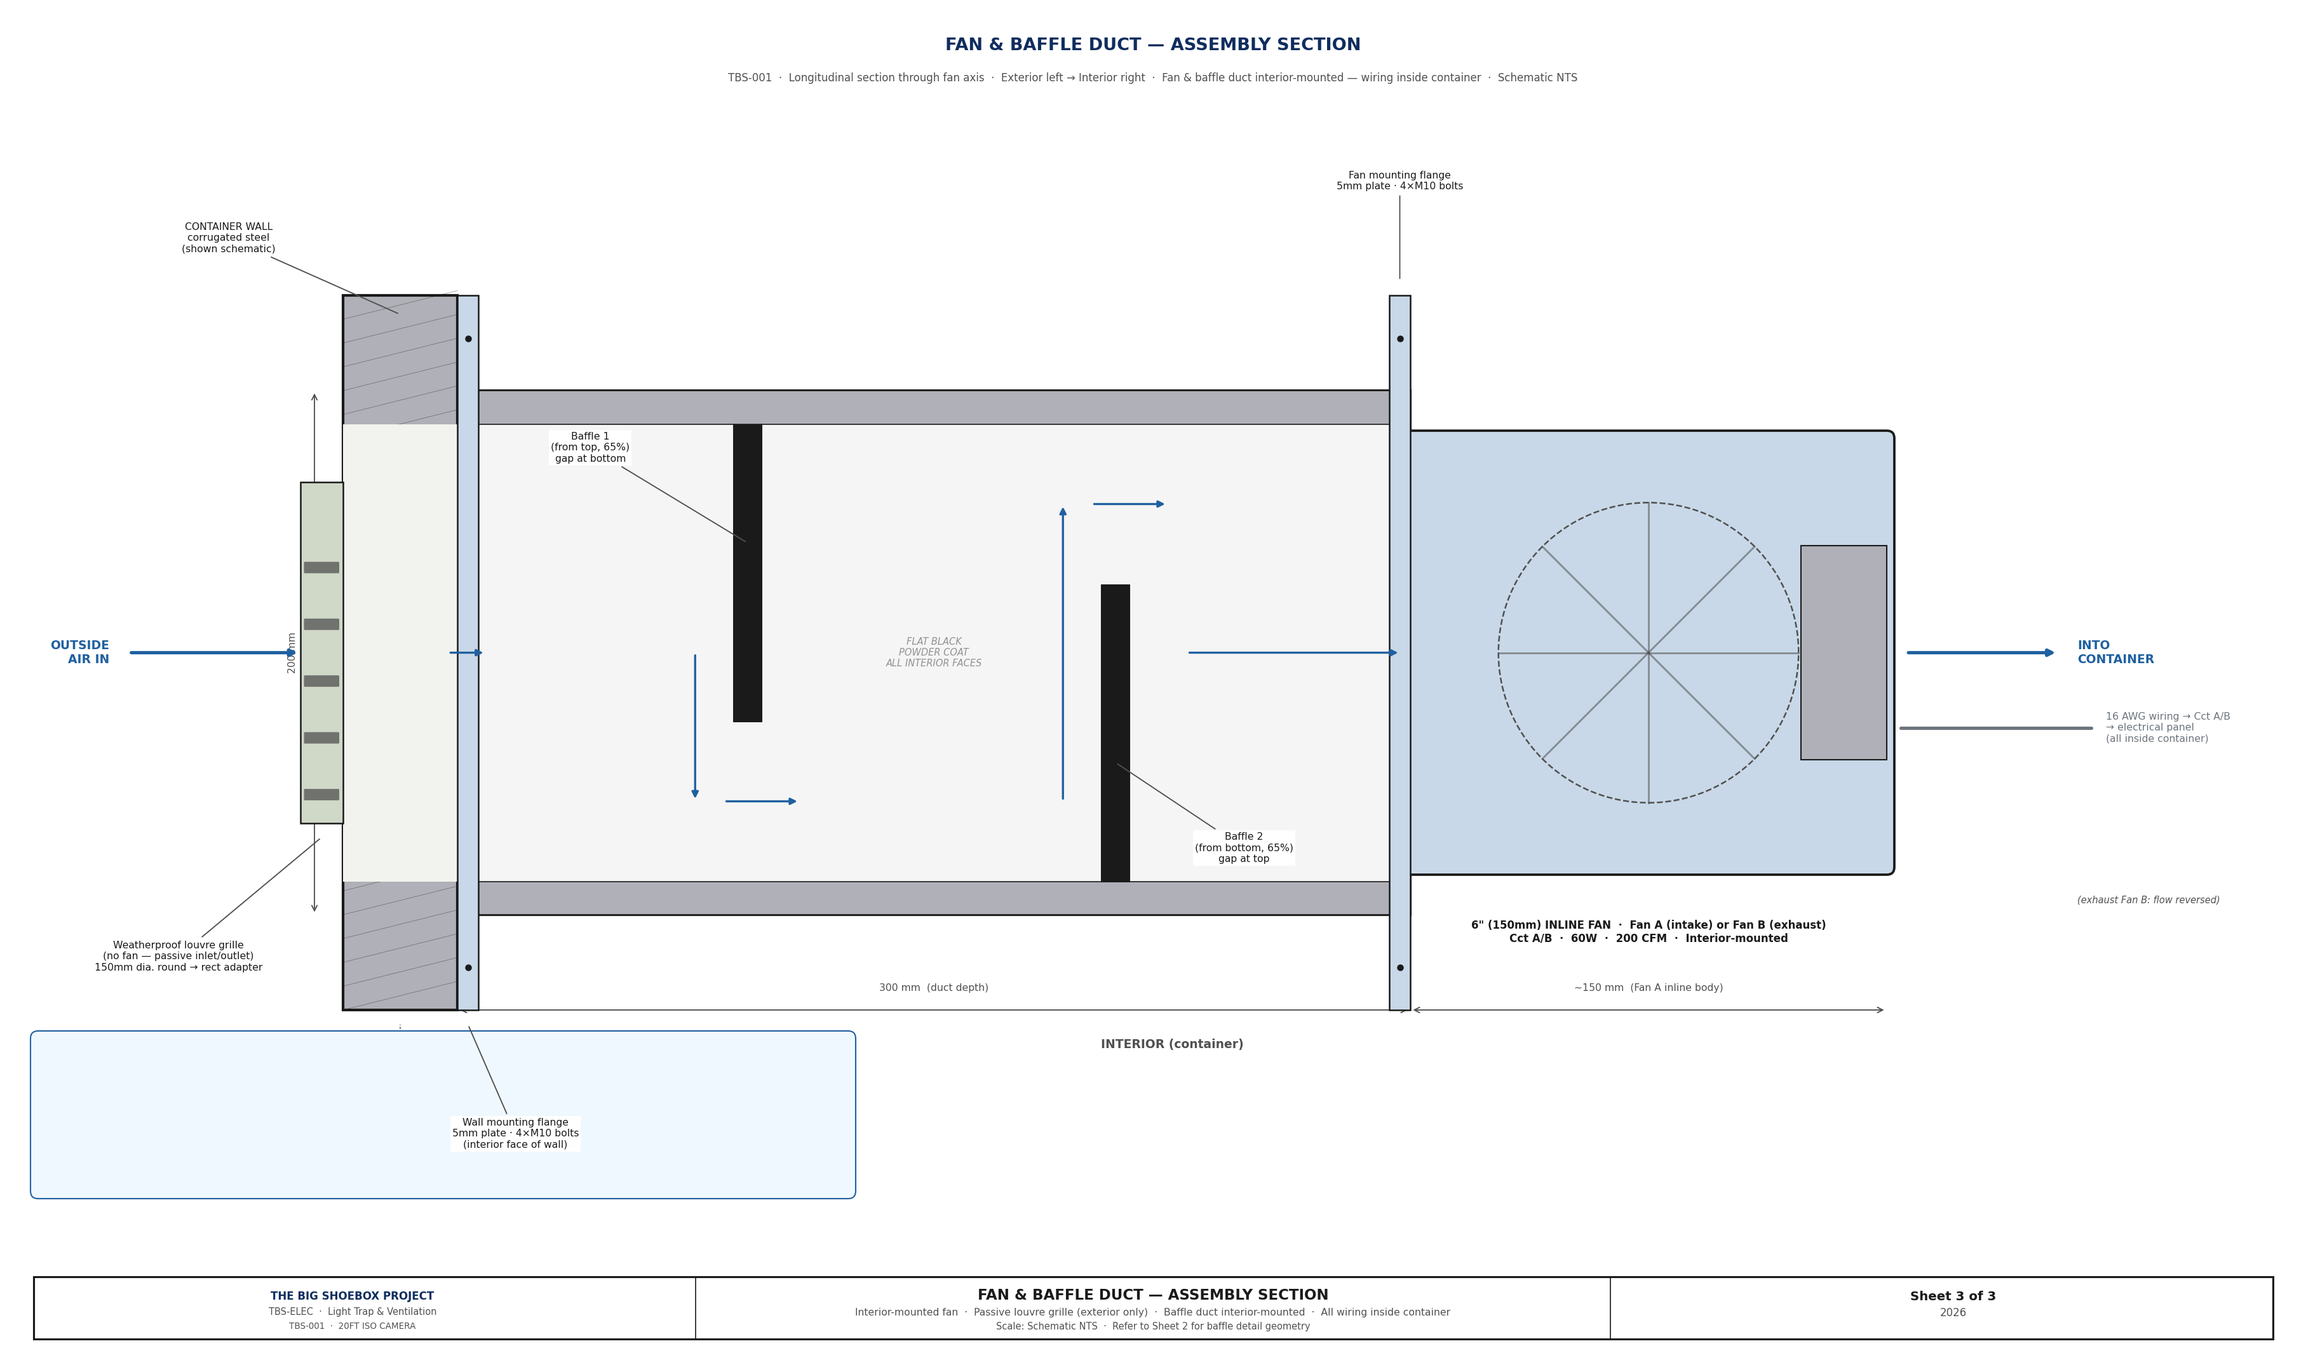
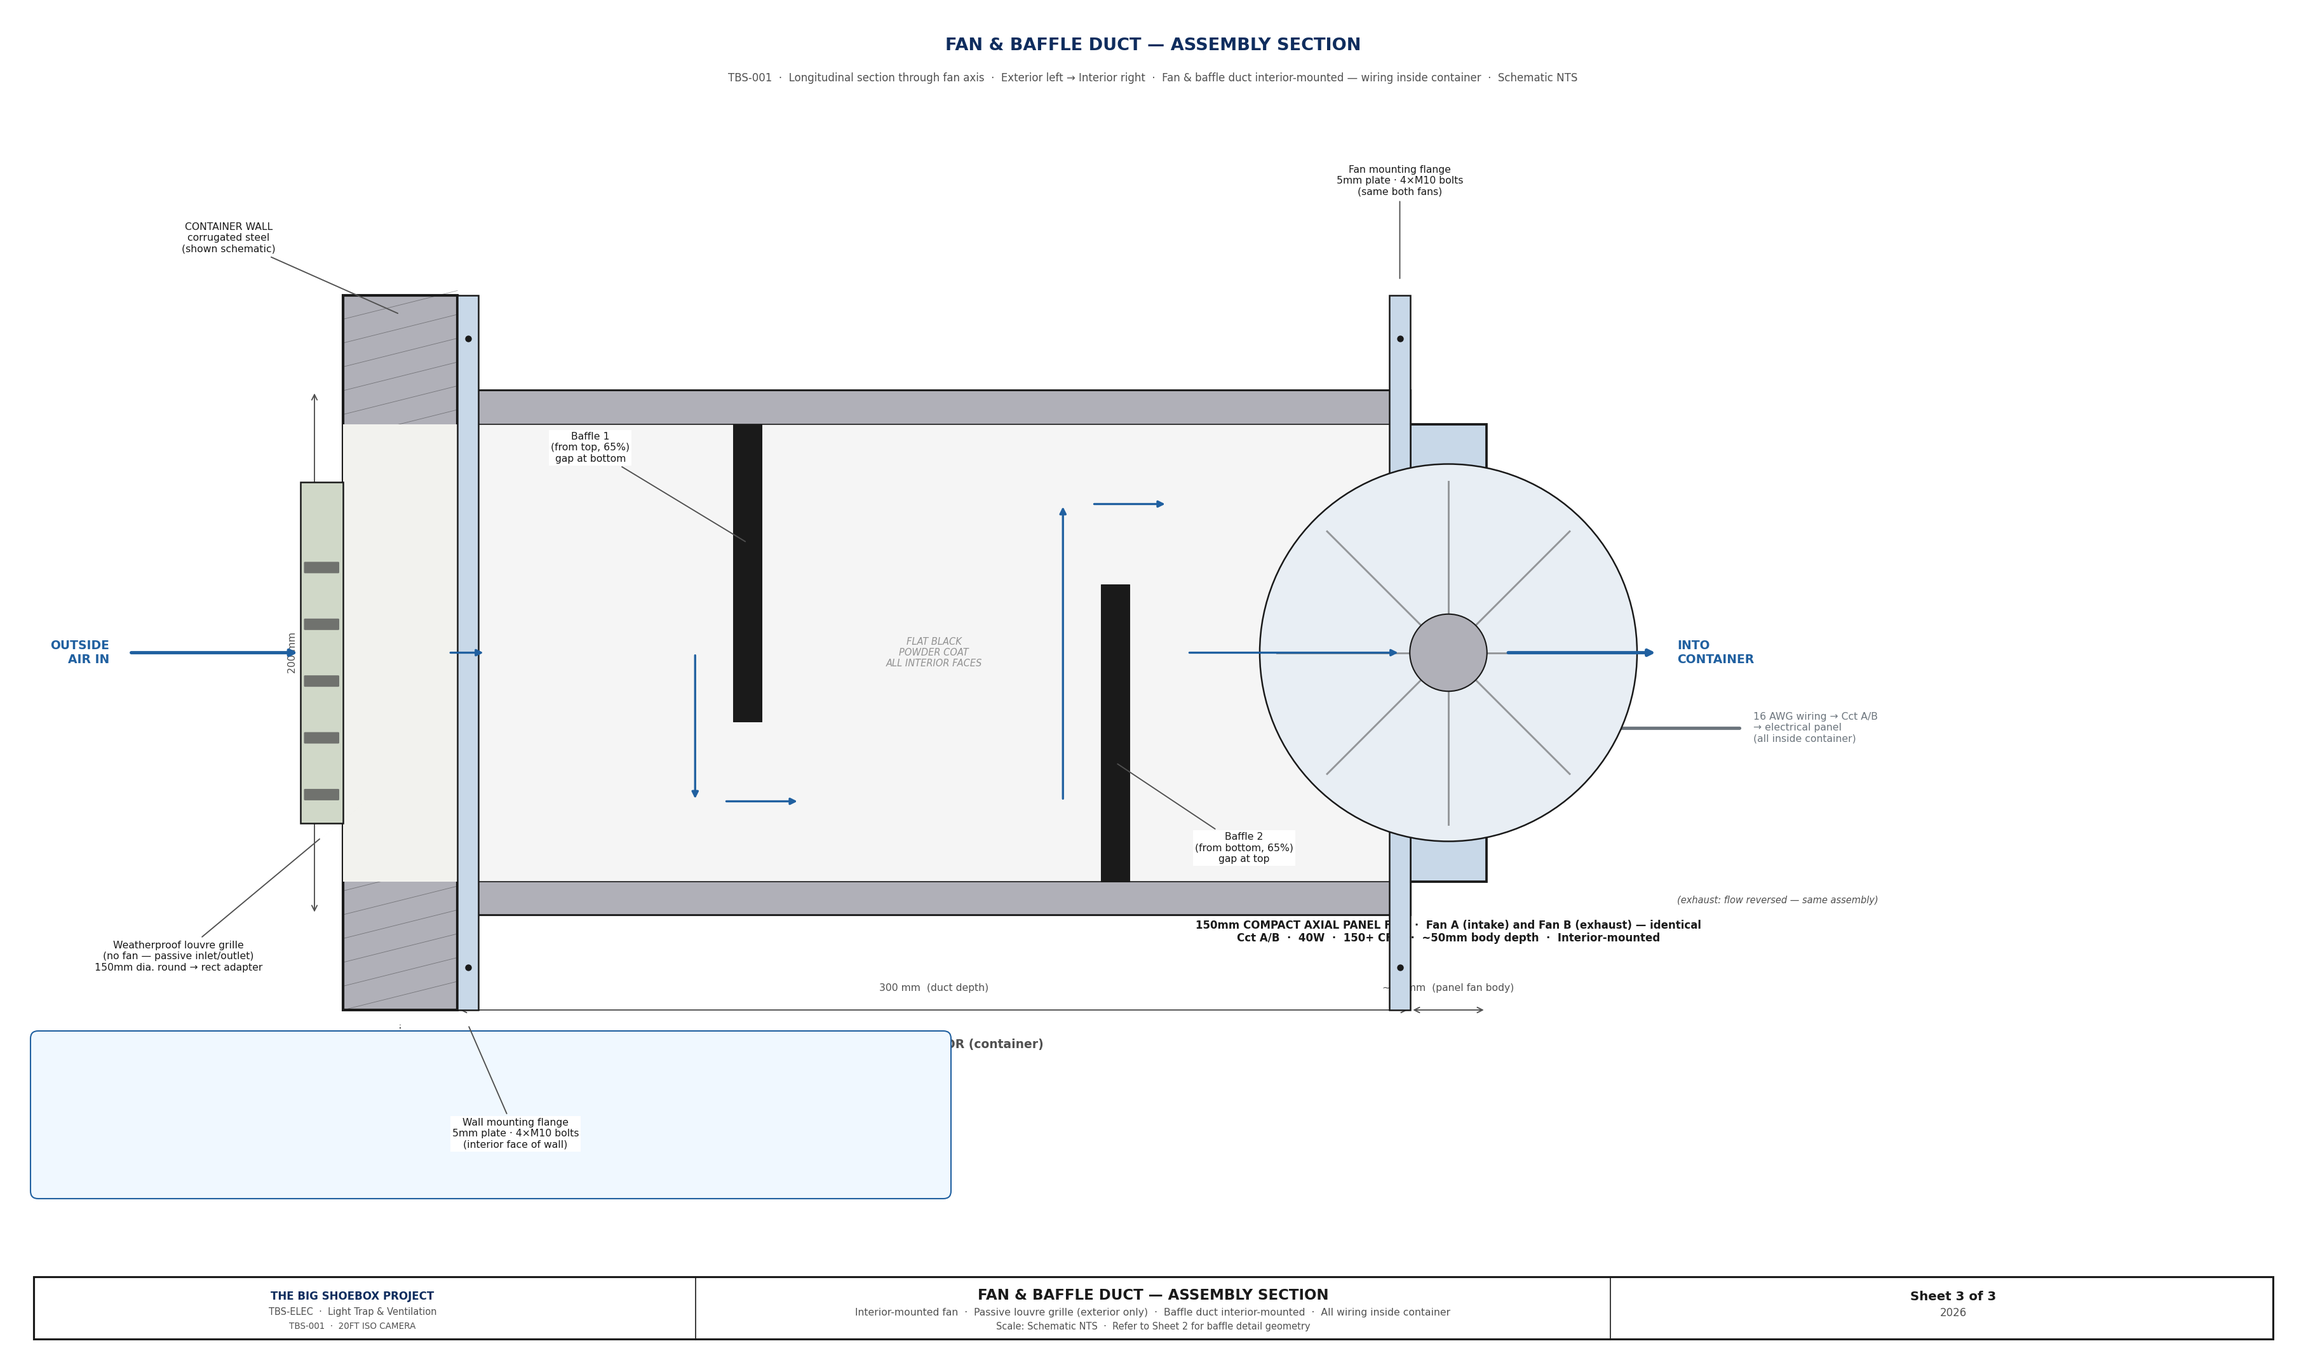
Both fans: compact axial panel fan — same part, simplified fabrication and procurement
Fan A and Fan B now identical: 150mm compact axial panel fan, ~50mm depth.
Sheet 2: Fan A updated to panel disc representation matching Fan B.
Sheet 3: inline fan body replaced with panel fan (thin rect + large impeller circle);
procurement note updated to confirm one part number for both fans.
Shadow margins: Fan A +894mm, Fan B +275mm — both clear.

diff --git a/generate_lighttrap_diagram.py b/generate_lighttrap_diagram.py
@@ -417,13 +417,16 @@ def draw_sheet2():
             ha="center", va="center", fontsize=9.0, color=C_DIM,
             style="italic", zorder=3)
 
-    # ── INTAKE FAN A (right end wall — interior-mounted, low position) ──────────
+    # ── INTAKE FAN A (right end wall — compact axial panel fan, low position) ────
+    # Both fans are identical: 150mm compact axial panel fan, ~50mm body depth.
+    # Same part, same mounting flange, same baffle duct — simplified procurement.
     import math
-    R_FAN = 0.45
-    BD_W  = 0.80    # baffle duct schematic depth (between wall interior face and fan body)
-    FA_Y  = CY + WT + CH * 0.18    # low position (unchanged)
+    PF_T  = 0.16   # panel fan body thickness in drawing units (~50mm, schematic)
+    R_PF  = 0.38   # panel fan impeller radius (150mm dia, schematic)
+    BD_W  = 0.80   # baffle duct schematic depth
+    FA_Y  = CY + WT + CH * 0.18    # low position
 
-    # Baffle duct box — between interior face of right wall and fan body
+    # Baffle duct box — between interior face of right wall and panel fan
     bd_a_x0 = CX + CW - WT - BD_W         # left edge of baffle duct box
     ax.add_patch(mpatches.Rectangle((bd_a_x0, FA_Y - 0.40), BD_W, 0.80,
                  fc="#D8E8D8", ec=C_OUT, lw=0.9, zorder=5))
@@ -436,15 +439,19 @@ def draw_sheet2():
     ax.text(CX + CW - WT / 2, FA_Y, "G", ha="center", va="center",
             fontsize=6.0, color=C_GND, fontweight="bold", zorder=6)
 
-    # Fan body — inside container, left of baffle duct
-    FA_X = bd_a_x0 - R_FAN - 0.10
-    ax.add_patch(plt.Circle((FA_X, FA_Y), R_FAN, fc=C_ALUM, ec=C_OUT, lw=1.5, zorder=5))
+    # Panel fan body — thin rectangle immediately left of baffle duct
+    FA_X   = bd_a_x0 - PF_T / 2          # fan centre (impeller plane)
+    pf_a_x0 = bd_a_x0 - PF_T             # left face of panel fan
+    ax.add_patch(mpatches.Rectangle((pf_a_x0, FA_Y - R_PF - 0.08), PF_T, (R_PF + 0.08) * 2,
+                 fc=C_ALUM, ec=C_OUT, lw=1.5, zorder=5))
+    ax.add_patch(plt.Circle((FA_X, FA_Y), R_PF,
+                 fc="none", ec=C_OUT, lw=1.2, zorder=6))
     ax.text(FA_X, FA_Y, "A", ha="center", va="center",
-            fontsize=12, fontweight="bold", color=C_OUT, zorder=6)
+            fontsize=9, fontweight="bold", color=C_OUT, zorder=7)
     for angle in [0, 60, 120, 180, 240, 300]:
-        bx = FA_X + 0.30 * math.cos(math.radians(angle))
-        by = FA_Y + 0.30 * math.sin(math.radians(angle))
-        ax.plot([FA_X, bx], [FA_Y, by], color=C_DIM, lw=1.5, alpha=0.5, zorder=5)
+        bx = FA_X + R_PF * 0.80 * math.cos(math.radians(angle))
+        by = FA_Y + R_PF * 0.80 * math.sin(math.radians(angle))
+        ax.plot([FA_X, bx], [FA_Y, by], color=C_DIM, lw=1.2, alpha=0.5, zorder=6)
 
     # Airflow: exterior right → grille → baffle → fan (leftward into container)
     ax.annotate("", xy=(CX + CW, FA_Y),
@@ -453,21 +460,18 @@ def draw_sheet2():
     ax.text(CX + CW + 1.8, FA_Y, "OUTSIDE\nAIR IN",
             ha="left", va="center", fontsize=8.0, color=C_CL, fontweight="bold")
     # Short interior distribution arrow from fan into container
-    ax.annotate("", xy=(FA_X - R_FAN - 0.7, FA_Y),
-                xytext=(FA_X - R_FAN - 0.1, FA_Y),
+    ax.annotate("", xy=(pf_a_x0 - 0.65, FA_Y),
+                xytext=(pf_a_x0 - 0.05, FA_Y),
                 arrowprops=dict(arrowstyle="-|>", color=C_CL, lw=1.2, alpha=0.6), zorder=6)
 
-    ann(ax, "Cct A  |  6\" (150mm) inline fan\n5A / 16AWG / 60W / 200 CFM\n(interior-mounted)",
-        (FA_X, FA_Y + R_FAN), (FA_X - 1.8, FA_Y + 2.2), size=7.5)
+    ann(ax, "Cct A  |  150mm compact axial panel fan\n3A / 16AWG / 40W / 150+ CFM\n~50mm body depth",
+        (FA_X, FA_Y + R_PF), (FA_X - 1.8, FA_Y + 2.2), size=7.5)
     ann(ax, "LOW POSITION\n~600mm AFF",
-        (FA_X, FA_Y - R_FAN), (FA_X - 1.2, FA_Y - 1.5), size=7.5)
+        (FA_X, FA_Y - R_PF), (FA_X - 1.2, FA_Y - 1.5), size=7.5)
 
-    # ── EXHAUST FAN B (left end wall — compact axial panel fan, high position) ──
-    # Panel fan: ~50mm body depth. Total: 300mm duct + 50mm fan = 350mm from wall.
-    # Shadow margin: 625mm (cone left boundary) − 350mm = +275mm clear.
-    FB_Y  = CY + CH - WT - CH * 0.18   # high position (unchanged)
-    PF_T  = 0.16   # panel fan body thickness in drawing units (~50mm, schematic)
-    R_PF  = 0.38   # panel fan impeller radius (same 150mm dia, schematic)
+    # ── EXHAUST FAN B (left end wall — identical compact axial panel fan, high position)
+    # Same fan, duct, and mounting as Fan A.
+    FB_Y  = CY + CH - WT - CH * 0.18   # high position
 
     # Baffle duct box — between interior face of left wall and panel fan
     bd_b_x0 = CX + WT                 # right edge of left wall = duct left face
@@ -537,10 +541,10 @@ def draw_sheet2():
 
     # ── Cross-ventilation airflow path ────────────────────────────────────────
     # Curved arrow from intake (low right) diagonally to exhaust (high left)
-    flow_pts_x = [FA_X - R_FAN - 0.5, CX + CW * 0.7, CX + CW * 0.3, FB_X + R_PF + 0.5]
+    flow_pts_x = [FA_X - R_PF - 0.5, CX + CW * 0.7, CX + CW * 0.3, FB_X + R_PF + 0.5]
     flow_pts_y = [FA_Y, FA_Y + 1.5, FB_Y - 1.5, FB_Y]
     ax.annotate("", xy=(FB_X + R_PF + 0.3, FB_Y),
-                xytext=(FA_X - R_FAN - 0.3, FA_Y),
+                xytext=(FA_X - R_PF - 0.3, FA_Y),
                 arrowprops=dict(arrowstyle="-|>", color=C_CL, lw=1.2,
                                 connectionstyle="arc3,rad=-0.35",
                                 alpha=0.6), zorder=4)
@@ -557,7 +561,7 @@ def draw_sheet2():
             "40 × 25mm PVC cable trunking  (Circuits A, B, D, E)",
             ha="center", va="bottom", fontsize=7.5, color=C_PIPE, fontweight="bold")
     # Drop conduits
-    for dx, dy in [(FA_X, FA_Y + R_FAN), (FB_X, FB_Y + R_PF),
+    for dx, dy in [(FA_X, FA_Y + R_PF), (FB_X, FB_Y + R_PF),
                    (EC_X + EC_W/2, EC_Y + EC_H)]:
         ax.plot([dx, dx], [TK_Y, dy], color=C_PIPE, lw=0.9, linestyle=":", zorder=3)
 
@@ -580,7 +584,7 @@ def draw_sheet2():
         ("POST-SESSION PURGE",     "Full speed", "Full speed", "OFF"),
         ("PRE-COOL (before entry)", "Full speed", "Full speed", "ON"),
     ]
-    hdrs = ["MODE", "FAN A — inline (intake)", "FAN B — panel (exhaust)", "EVAP COOLER"]
+    hdrs = ["MODE", "FAN A — panel (intake)", "FAN B — panel (exhaust)", "EVAP COOLER"]
     for ci, hdr in enumerate(hdrs):
         hx = MX + ci * (CW / 4)
         ax.text(hx + CW/8, MY - 0.30, hdr,
@@ -868,48 +872,48 @@ def draw_sheet3():
             ha="center", va="center", fontsize=7.0, color="#808080",
             style="italic", alpha=0.85, zorder=6)
 
-    # ── Fan body (interior-mounted — on right face of duct housing) ───────────
-    # Fan mounting flange at right face of duct
-    FM_T = 0.22
+    # ── Fan body — compact axial panel fan (both Fan A and Fan B identical) ─────
+    # Panel fan: ~50mm body depth, 150mm dia. One part number for both fans.
+    FM_T  = 0.22     # mounting flange plate thickness
+    PF_BD = 0.80     # panel fan body depth in drawing units (~50mm schematic)
+    PF_R  = FAN_R    # impeller radius = FAN_R (150mm dia)
+
+    # Mounting flange at right face of duct
     ax.add_patch(mpatches.Rectangle((FAN_X - FM_T, DUCT_Y - FL_W), FM_T, DH + 2 * FL_W,
                  fc=C_ALUM, ec=C_OUT, lw=1.2, zorder=6))
     for by in [DUCT_Y - FL_W * 0.55, DUCT_Y + DH + FL_W * 0.55]:
         ax.plot(FAN_X - FM_T / 2, by, "o", color=C_OUT, ms=4, zorder=7)
-    ann(ax, "Fan mounting flange\n5mm plate · 4×M10 bolts",
+    ann(ax, "Fan mounting flange\n5mm plate · 4×M10 bolts\n(same both fans)",
         (FAN_X - FM_T / 2, DUCT_Y + DH + FL_W + 0.15),
         (FAN_X - FM_T / 2, DUCT_Y + DH + FL_W + 1.2))
 
-    # Fan body (rectangular elevation view)
-    ax.add_patch(mpatches.FancyBboxPatch(
-        (FAN_X, FAN_CY - FAN_R), FAN_LEN, FAN_D,
-        boxstyle="round,pad=0.08",
-        fc=C_ALUM, ec=C_OUT, lw=1.8, zorder=5))
-    # Impeller disc
-    ax.add_patch(plt.Circle((FAN_CX, FAN_CY), FAN_R * 0.70,
-                 fc="none", ec=C_DIM, lw=1.2, ls="--", zorder=6))
+    # Panel fan body — thin rectangle (shallow depth) + large impeller circle on face
+    ax.add_patch(mpatches.Rectangle((FAN_X, FAN_CY - PF_R - 0.15), PF_BD, (PF_R + 0.15) * 2,
+                 fc=C_ALUM, ec=C_OUT, lw=1.8, zorder=5))
+    # Impeller circle (full face of panel fan — fills most of body width)
+    ax.add_patch(plt.Circle((FAN_X + PF_BD / 2, FAN_CY), PF_R * 0.88,
+                 fc="#E8EEF4", ec=C_OUT, lw=1.2, zorder=6))
     # Blade lines
     for angle in range(0, 360, 45):
-        bx = FAN_CX + FAN_R * 0.70 * math.cos(math.radians(angle))
-        by = FAN_CY + FAN_R * 0.70 * math.sin(math.radians(angle))
-        ax.plot([FAN_CX, bx], [FAN_CY, by],
+        bx = FAN_X + PF_BD / 2 + PF_R * 0.80 * math.cos(math.radians(angle))
+        by = FAN_CY + PF_R * 0.80 * math.sin(math.radians(angle))
+        ax.plot([FAN_X + PF_BD / 2, bx], [FAN_CY, by],
                 color=C_DIM, lw=1.4, alpha=0.55, zorder=7)
-    # Motor casing (right end of fan body)
-    ax.add_patch(mpatches.Rectangle(
-        (FAN_X + FAN_LEN - 0.9, FAN_CY - FAN_R * 0.5),
-        0.9, FAN_D * 0.5,
-        fc=C_STEEL, ec=C_OUT, lw=1.0, zorder=6))
+    # Motor hub (small circle at centre)
+    ax.add_patch(plt.Circle((FAN_X + PF_BD / 2, FAN_CY), PF_R * 0.18,
+                 fc=C_STEEL, ec=C_OUT, lw=1.0, zorder=8))
 
-    # Wiring run from motor into container interior (right of fan)
-    WR_X = FAN_X + FAN_LEN + 0.15
-    ax.plot([WR_X, WR_X + 2.0], [FAN_CY - FAN_R * 0.35, FAN_CY - FAN_R * 0.35],
+    # Wiring run from fan into container interior
+    WR_X = FAN_X + PF_BD + 0.15
+    ax.plot([WR_X, WR_X + 2.5], [FAN_CY - PF_R * 0.35, FAN_CY - PF_R * 0.35],
             color=C_PIPE, lw=2.5, solid_capstyle="round", zorder=5)
-    ax.text(WR_X + 2.15, FAN_CY - FAN_R * 0.35,
+    ax.text(WR_X + 2.65, FAN_CY - PF_R * 0.35,
             "16 AWG wiring → Cct A/B\n→ electrical panel\n(all inside container)",
             ha="left", va="center", fontsize=7.5, color=C_PIPE)
 
-    ax.text(FAN_CX, FAN_CY - FAN_R - 0.55,
-            "6\" (150mm) INLINE FAN  ·  Fan A (intake) or Fan B (exhaust)\n"
-            "Cct A/B  ·  60W  ·  200 CFM  ·  Interior-mounted",
+    ax.text(FAN_X + PF_BD / 2, FAN_CY - PF_R - 0.55,
+            "150mm COMPACT AXIAL PANEL FAN  ·  Fan A (intake) and Fan B (exhaust) — identical\n"
+            "Cct A/B  ·  40W  ·  150+ CFM  ·  ~50mm body depth  ·  Interior-mounted",
             ha="center", va="top", fontsize=8.0, fontweight="bold", color=C_OUT)
 
     # ── Airflow arrows (intake mode shown — exhaust is identical, reversed) ───
@@ -943,19 +947,19 @@ def draw_sheet3():
     ax.annotate("", xy=(FAN_X - 0.1, mid_y), xytext=(B2_X + BF_T + 0.6, mid_y),
                 arrowprops=dict(arrowstyle="-|>", color=pc, lw=plw), zorder=7)
     # Fan → interior container
-    ax.annotate("", xy=(FAN_X + FAN_LEN + 1.8, mid_y),
-                xytext=(FAN_X + FAN_LEN + 0.2, mid_y),
+    ax.annotate("", xy=(FAN_X + PF_BD + 1.8, mid_y),
+                xytext=(FAN_X + PF_BD + 0.2, mid_y),
                 arrowprops=dict(arrowstyle="-|>", color=pc, lw=2.5), zorder=8)
-    ax.text(FAN_X + FAN_LEN + 2.0, mid_y, "INTO\nCONTAINER",
+    ax.text(FAN_X + PF_BD + 2.0, mid_y, "INTO\nCONTAINER",
             ha="left", va="center", fontsize=9.0, color=pc, fontweight="bold")
-    ax.text(FAN_X + FAN_LEN + 2.0, mid_y - FAN_R - 0.3,
-            "(exhaust Fan B: flow reversed)",
+    ax.text(FAN_X + PF_BD + 2.0, mid_y - FAN_R - 0.3,
+            "(exhaust: flow reversed — same assembly)",
             ha="left", va="top", fontsize=7.0, color=C_DIM, style="italic")
 
     # ── Zone labels ───────────────────────────────────────────────────────────
     ax.text(WX / 2, wall_y0 - 0.3, "EXTERIOR",
             ha="center", va="top", fontsize=9.0, color=C_DIM, fontweight="bold")
-    ax.text(DUCT_X + (FAN_X + FAN_LEN - DUCT_X) / 2, wall_y0 - 0.3,
+    ax.text(DUCT_X + (FAN_X + PF_BD - DUCT_X) / 2, wall_y0 - 0.3,
             "INTERIOR (container)",
             ha="center", va="top", fontsize=9.0, color=C_DIM, fontweight="bold")
     ax.plot([WX + WT / 2, WX + WT / 2], [wall_y0 - 0.6, wall_y0 - 0.15],
@@ -967,25 +971,24 @@ def draw_sheet3():
     dim_h(ax, WX, WX + WT, DUCT_Y + DH + 0.7, "wall")
     ax.plot([WX, WX], [DUCT_Y + DH, DUCT_Y + DH + 0.85], color=C_DIM, lw=0.5, ls=":")
     ax.plot([WX + WT, WX + WT], [DUCT_Y + DH, DUCT_Y + DH + 0.85], color=C_DIM, lw=0.5, ls=":")
-    dim_h(ax, FAN_X, FAN_X + FAN_LEN, DUCT_Y - 1.0, "~150 mm  (Fan A inline body)")
+    dim_h(ax, FAN_X, FAN_X + PF_BD, DUCT_Y - 1.0, "~50 mm  (panel fan body)")
 
-    # ── Fan B variant note ────────────────────────────────────────────────────
-    # Fan B (exhaust, left end wall) uses a compact axial panel fan, not inline.
-    # Baffle duct geometry is identical. Only the fan body changes.
+    # ── Shadow margin / procurement note ─────────────────────────────────────
     NX, NY = 0.3, 1.6
-    ax.add_patch(mpatches.FancyBboxPatch((NX, NY), 8.5, 1.6,
+    ax.add_patch(mpatches.FancyBboxPatch((NX, NY), 9.5, 1.6,
                  boxstyle="round,pad=0.08", fc="#F0F8FF", ec=C_CL, lw=1.0, zorder=5))
-    ax.text(NX + 0.20, NY + 1.35, "FAN B  —  COMPACT AXIAL PANEL FAN VARIANT",
+    ax.text(NX + 0.20, NY + 1.35,
+            "BOTH FANS — 150mm COMPACT AXIAL PANEL FAN  ·  ONE PART NUMBER",
             ha="left", va="center", fontsize=8.5, fontweight="bold", color=C_CL)
     ax.text(NX + 0.20, NY + 1.00,
-            "Fan B (exhaust, left end wall) uses a 150mm compact axial panel fan (~50mm body depth)\n"
-            "in place of the 6\" inline unit shown above. Baffle duct geometry is identical.",
+            "Fan A (intake, right end) and Fan B (exhaust, left end) are identical.\n"
+            "Same fan body, same mounting flange, same baffle duct — simplified fabrication and procurement.",
             ha="left", va="center", fontsize=7.5, color=C_OUT)
-    ax.text(NX + 0.20, NY + 0.55,
-            "Total depth from wall:  300mm (duct) + 50mm (fan) = 350mm",
+    ax.text(NX + 0.20, NY + 0.58,
+            "Total depth from wall (each):  300mm baffle duct + 50mm fan = 350mm",
             ha="left", va="center", fontsize=7.5, color=C_OUT)
     ax.text(NX + 0.20, NY + 0.25,
-            "Shadow margin: X = 350mm vs cone left boundary X = 625mm  →  +275mm clear  ✓",
+            "Shadow margins:  Fan A → +894mm clear of cone right edge  ·  Fan B → +275mm clear of cone left edge  ✓",
             ha="left", va="center", fontsize=7.5, color="#2E7D32", fontweight="bold")
 
     title_block(ax, FW, 3, 3,
